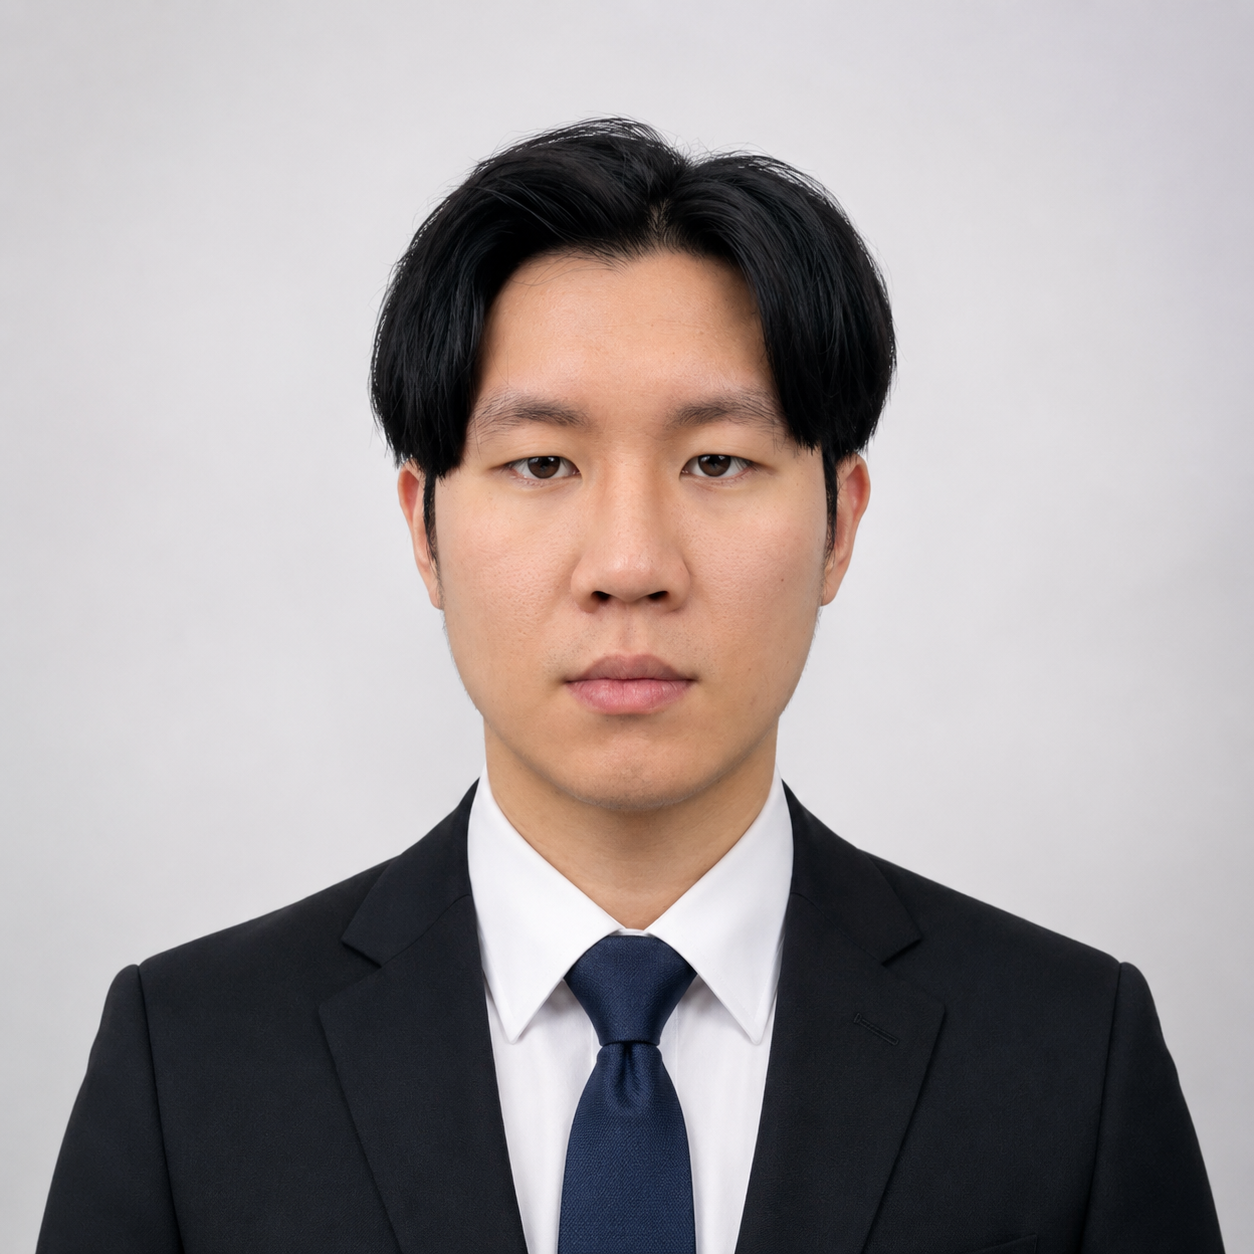
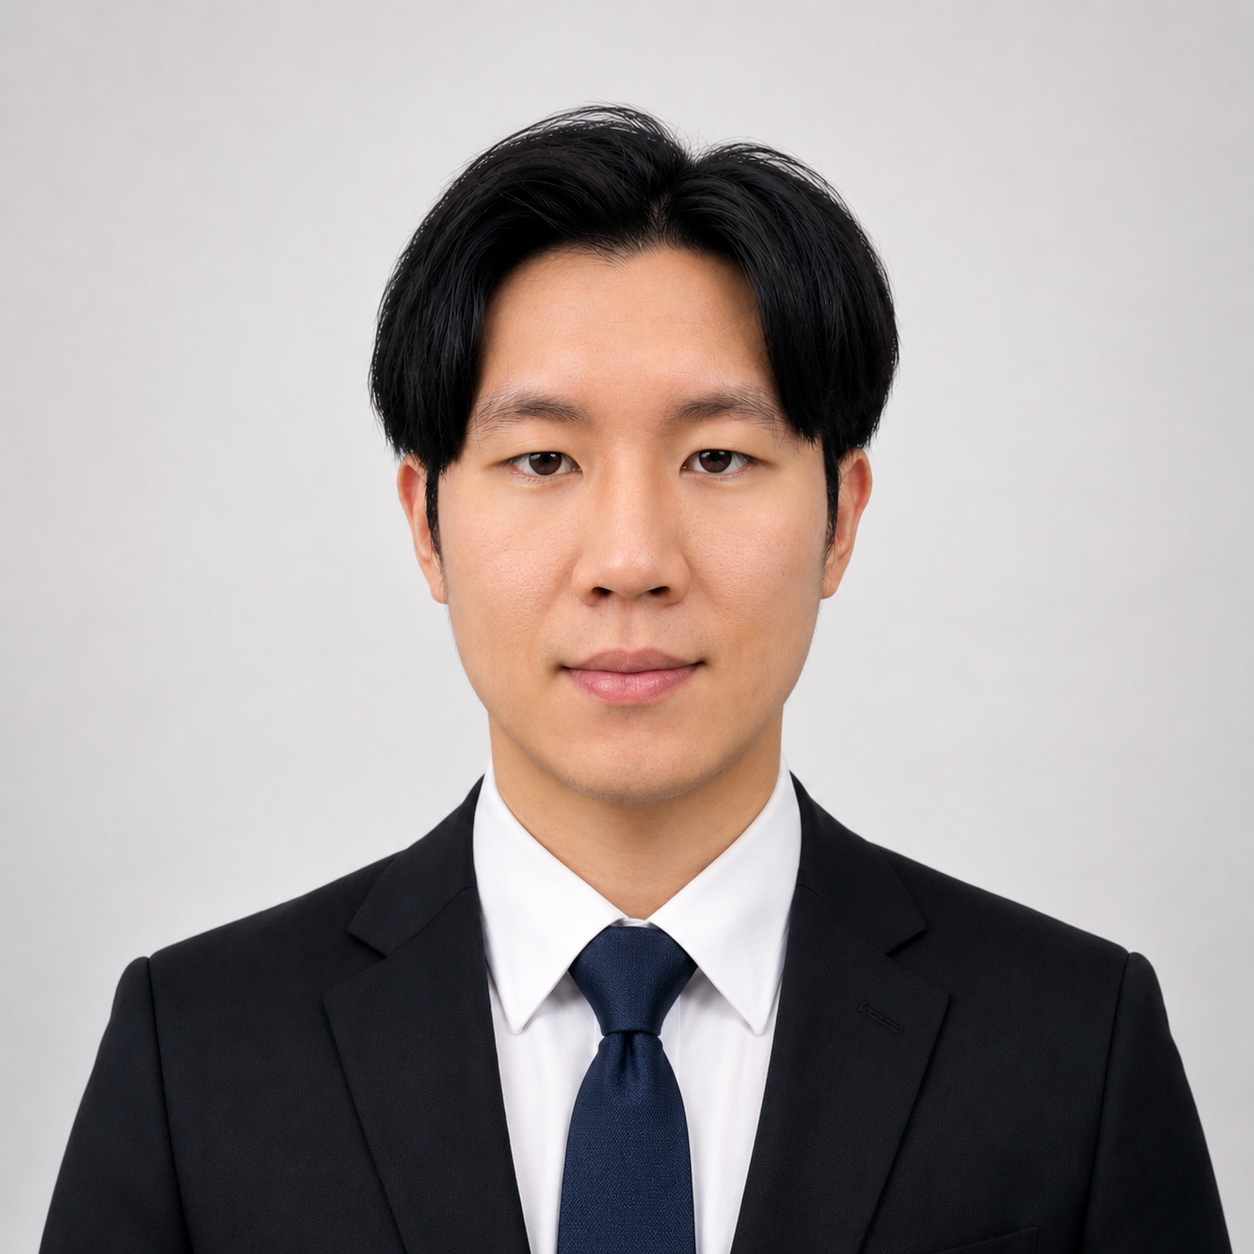
Update profile photo and resume evidence layout

diff --git a/one-page-resume.tex b/one-page-resume.tex
@@ -74,14 +74,15 @@
   {\small\textbf{#1}}\ {\small #2}\par
 }
 \newcommand{\evidence}[4]{%
-  \begin{colorboxx}[height=27mm,valign=center]{#1}
-    \begin{minipage}[c]{21mm}
+  \begin{colorboxx}[height=32mm,valign=center]{#1}
+    \begin{minipage}[c]{27mm}
       \centering
-      \includegraphics[width=21mm,height=20mm,keepaspectratio]{#2}
+      \includegraphics[width=26mm,height=25mm,keepaspectratio]{#2}
     \end{minipage}\hfill
-    \begin{minipage}[c]{\dimexpr\linewidth-25mm\relax}
-      {\footnotesize\bfseries #3}\par
-      {\scriptsize #4}
+    \begin{minipage}[c]{\dimexpr\linewidth-31mm\relax}
+      \raggedright
+      {\small\bfseries #3}\par\vspace{.5mm}
+      {\footnotesize #4}
     \end{minipage}
   \end{colorboxx}
 }
@@ -257,7 +258,7 @@
   \end{tabularx}
 \end{colorboxx}
 
-\vspace{1mm}
+\vfill
 \begin{tcolorbox}[
   enhanced,
   boxrule=0pt,